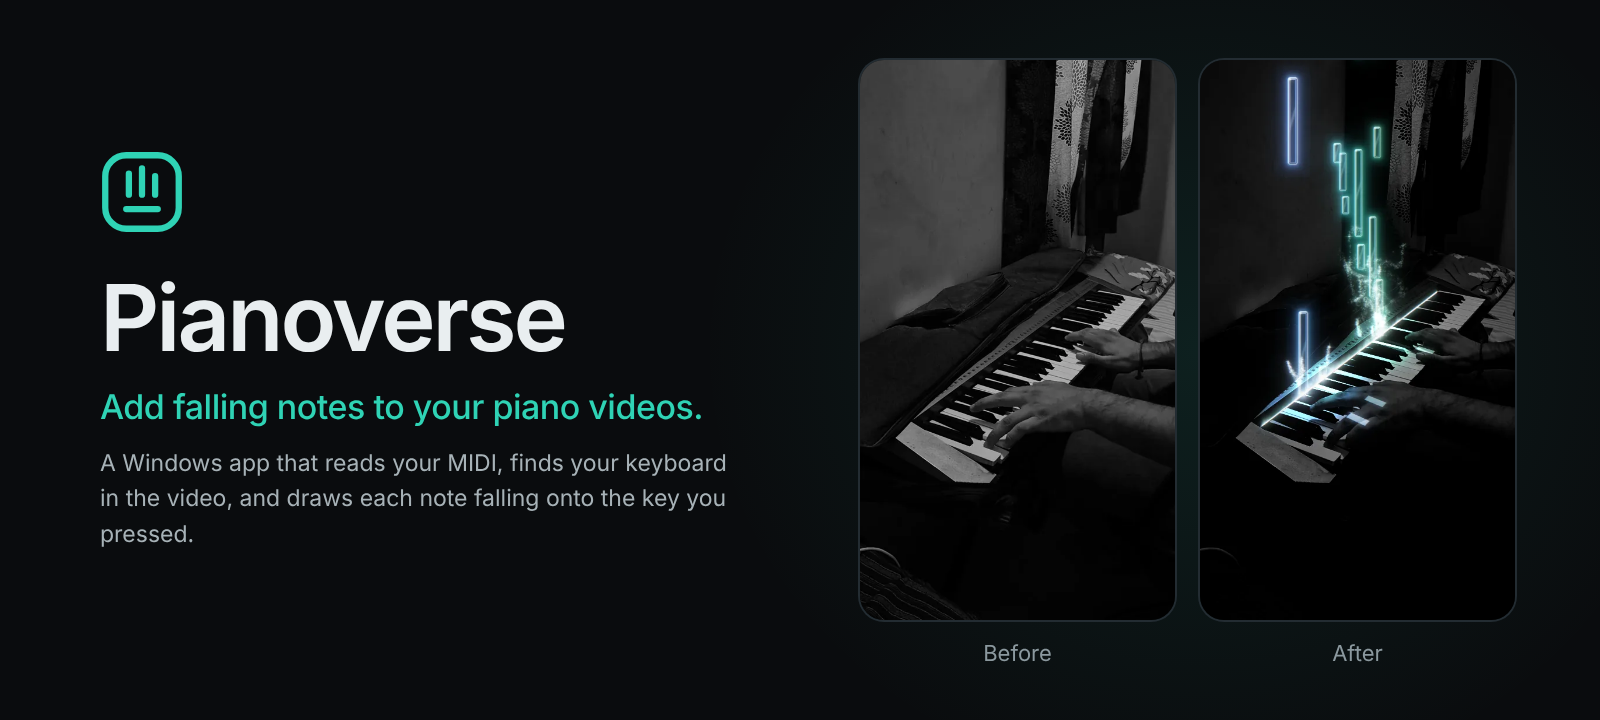
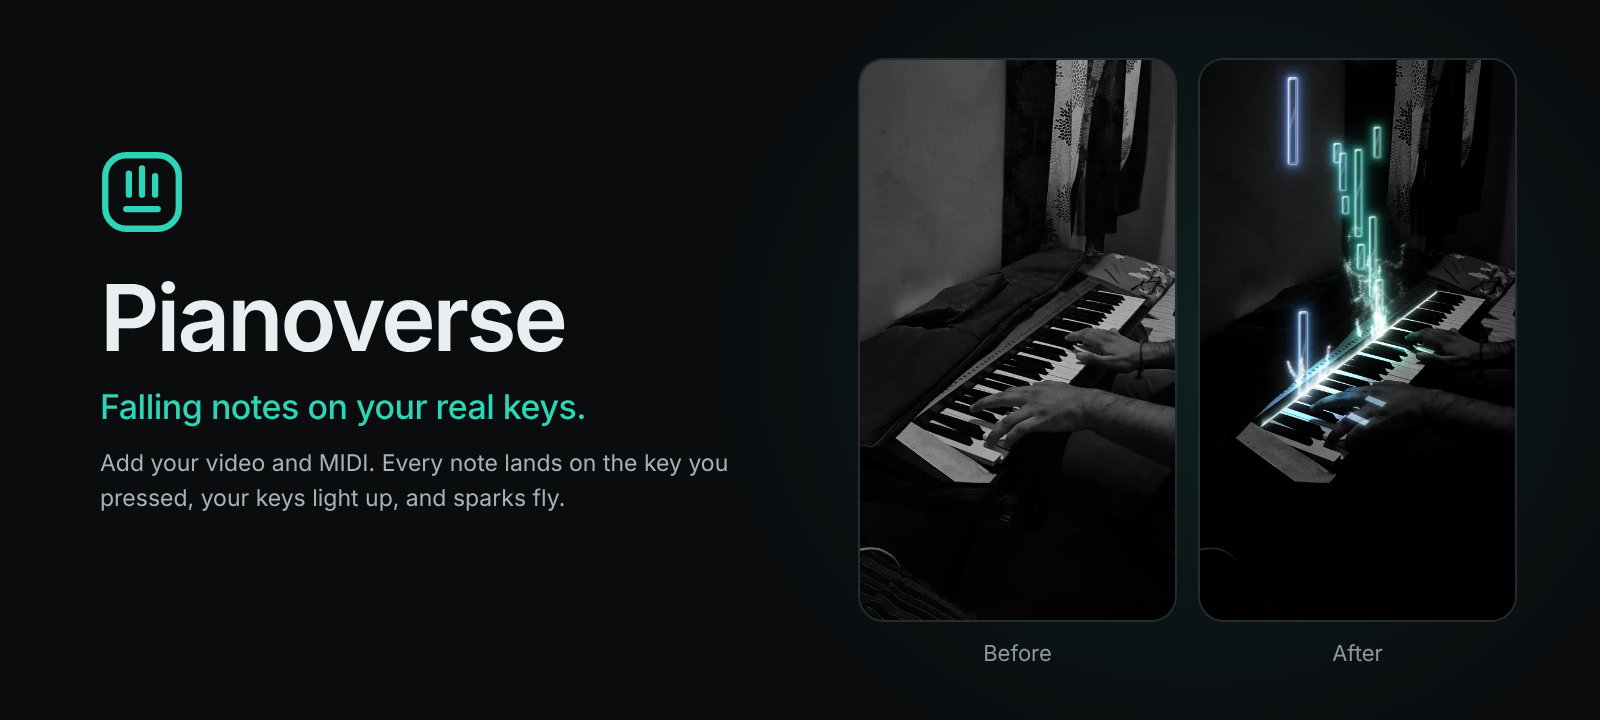
README: shorter, punchier opener [skip ci]
Claude-Session: https://claude.ai/code/session_01CdoMS8U3BJzhtMLBWDcmEz

Changed region(s): [[0.0625, 0.55, 0.4688, 0.7028], [0.0625, 0.7333, 0.125, 0.7639]]

diff --git a/README.md b/README.md
@@ -11,12 +11,11 @@
   <img src="https://img.shields.io/badge/status-Milestone%205%20done-2FD3B5?style=flat" alt="Milestone 5 done">
 </p>
 
-<h3 align="center">Add falling notes to your piano videos.</h3>
+<h3 align="center">Falling notes on your real keys.</h3>
 
 <p align="center">
-  Pianoverse is a Windows app. Give it a video of yourself playing and the MIDI from the same take:<br>
-  it lines them up, finds your keyboard in every frame, and draws each note falling onto the key you pressed,<br>
-  with a glowing line along the keys and sparks where the note lands. Then it exports the video for Shorts, Reels or YouTube.
+  Add your piano video and its MIDI. Pianoverse drops every note onto the key you pressed,<br>
+  lights up your keys and sends sparks flying, then exports it for Shorts, Reels or YouTube. For Windows.
 </p>
 
 <p align="center">
